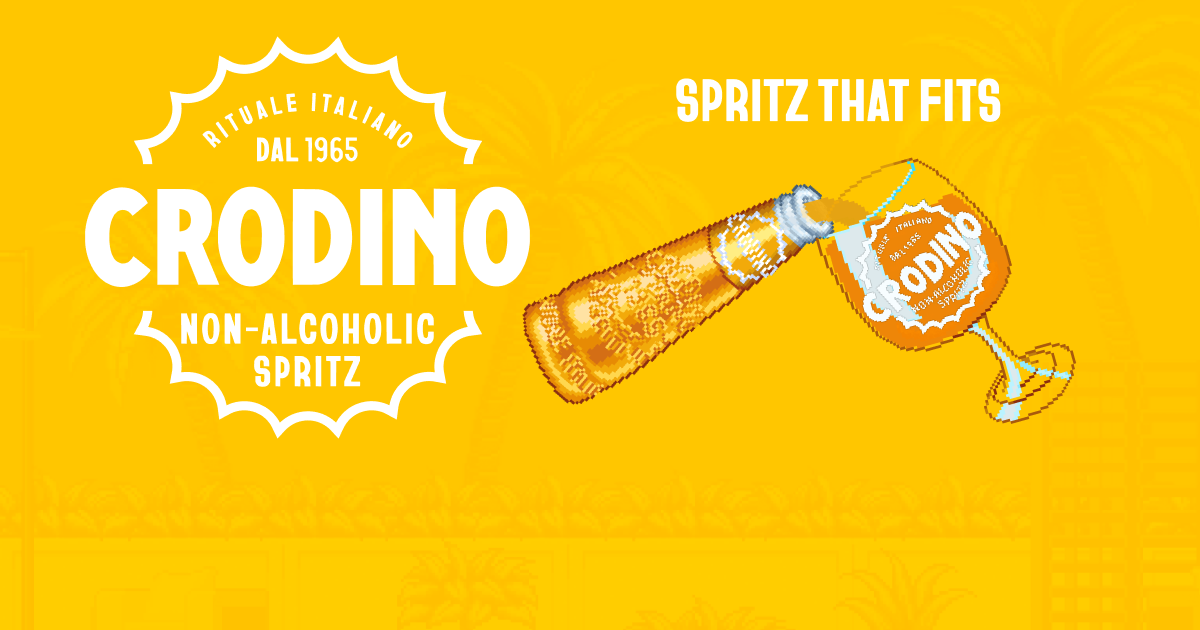
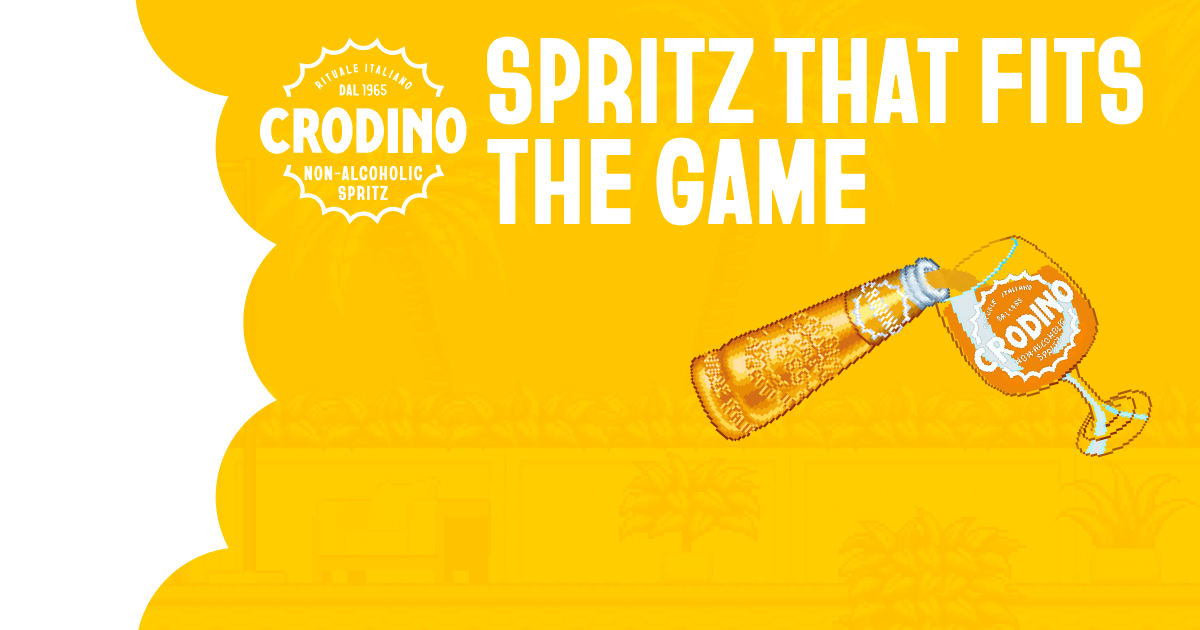
loadscreen: new branded artwork + contain fit
Swap in the new "Spritz That Fits the Game" load/terms artwork (integrated
logo + headline + pour). Switch the gate background from cover to contain with
a matched #FFC600 backdrop so the full headline is never clipped on any aspect
ratio (4:3 / mobile portrait included) and the letterbox is seamless. Soften
the controls scrim so it blends with the open-bottom artwork.

diff --git a/TemplateData/style.css b/TemplateData/style.css
@@ -31,8 +31,8 @@ html, body { width: 100%; height: 100%; padding: 0; margin: 0; overflow: hidden;
    artwork's wide margins mean cover's side-crop doesn't touch the logo/headline at
    landscape ratios. Controls sit on a SOFT gradient scrim (transparent -> yellow)
    rather than a hard rectangle, so there is no visible edge cutting the image. */
-#crodino-gate { position: fixed; inset: 0; z-index: 50; display: flex; flex-direction: column; justify-content: flex-end; box-sizing: border-box; font-family: arial, sans-serif; background-color: #FDC500; background-image: url("crodino-loadscreen.png"); background-repeat: no-repeat; background-position: center center; background-size: cover }
-#crodino-gate .cg-inner { width: 100%; box-sizing: border-box; text-align: center; padding: 52px clamp(16px, 5vw, 40px) clamp(18px, 4vh, 28px); background: linear-gradient(to top, rgba(253,197,0,0.97) 0%, rgba(253,197,0,0.92) 38%, rgba(253,197,0,0.55) 72%, rgba(253,197,0,0) 100%) }
+#crodino-gate { position: fixed; inset: 0; z-index: 50; display: flex; flex-direction: column; justify-content: flex-end; box-sizing: border-box; font-family: arial, sans-serif; background-color: #FFC600; background-image: url("crodino-loadscreen.png"); background-repeat: no-repeat; background-position: center center; background-size: contain }
+#crodino-gate .cg-inner { width: 100%; box-sizing: border-box; text-align: center; padding: 48px clamp(16px, 5vw, 40px) clamp(20px, 4vh, 30px); background: linear-gradient(to top, rgba(253,197,0,0.82) 0%, rgba(253,197,0,0.42) 52%, rgba(253,197,0,0) 88%) }
 #crodino-gate-text { color: #FFFFFF; font-size: clamp(13px, 2.6vw, 18px); line-height: 1.45; max-width: 620px; margin: 0 auto 14px; text-shadow: 0 1px 2px rgba(0,0,0,0.18) }
 #crodino-gate-bar { width: min(72vw, 320px); height: 12px; margin: 0 auto 16px; background: rgba(255,255,255,0.35); border-radius: 999px; overflow: hidden }
 #crodino-gate-bar-full { height: 100%; width: 0; background: #FFFFFF; border-radius: 999px; transition: width 0.2s ease }
